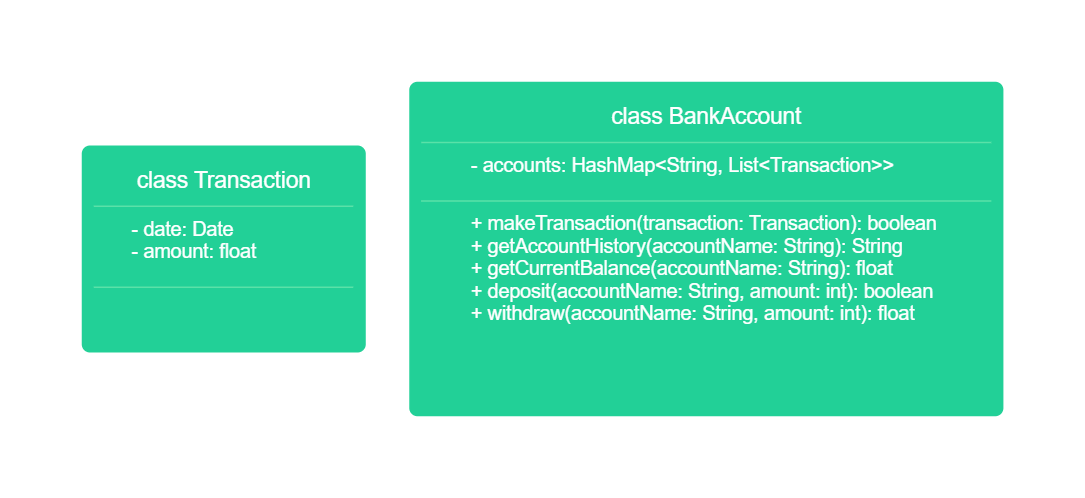
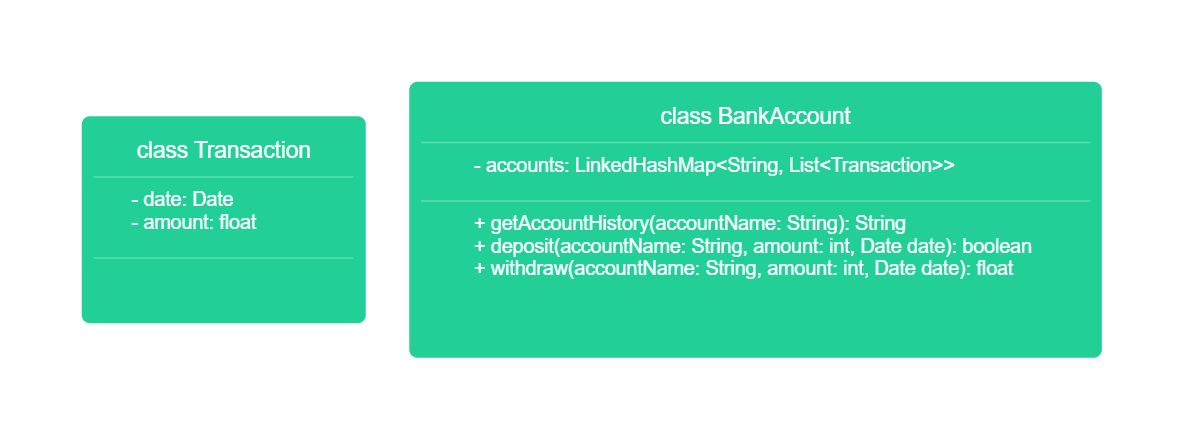
updating domain-model and class diagram

Changed region(s): [[0.0608, 0.1481, 0.9429, 0.8588]]

diff --git a/domain-model.md b/domain-model.md
@@ -5,13 +5,8 @@
 
 | Class         | Members                                       | Methods                                                        | Scenarios                                                   | Outputs |
 |---------------|-----------------------------------------------|----------------------------------------------------------------|-------------------------------------------------------------|---------|
-| `BankAccount` | `HashMap<String, List<Transaction>> accounts` | `makeTransaction(String accountName, Transaction transaction)` | transaction is valid                                        | true    |
-|               |                                               |                                                                | transaction is invalid                                      | false   |
-|               |                                               |                                                                | client wants to withdrawal money but has not enough         | false   |
-|               |                                               | `getAccountHistory(String accountName)`                        | showing accounts history if accountName is valid            | String  |
+| `BankAccount` | `HashMap<String, List<Transaction>> accounts` | `getAccountHistory(String accountName)`                        | showing accounts history if accountName is valid            | String  |
 |               |                                               |                                                                | showing error if accountName is not valid                   | String  |
-|               |                                               | `getCurrentBalance(String accountName)`                        | showing current account balance if accountName is valid     | float   |
-|               |                                               |                                                                | showing current account balance if accountName is not valid | float   |
 |               |                                               | `deposite(String accountName, int amount)`                     | account with given accountName exists and amount is valid   | true    |
 |               |                                               |                                                                | account with given accountName do not exists                | false   |
 |               |                                               |                                                                | amount is in valid                                          | false   |
